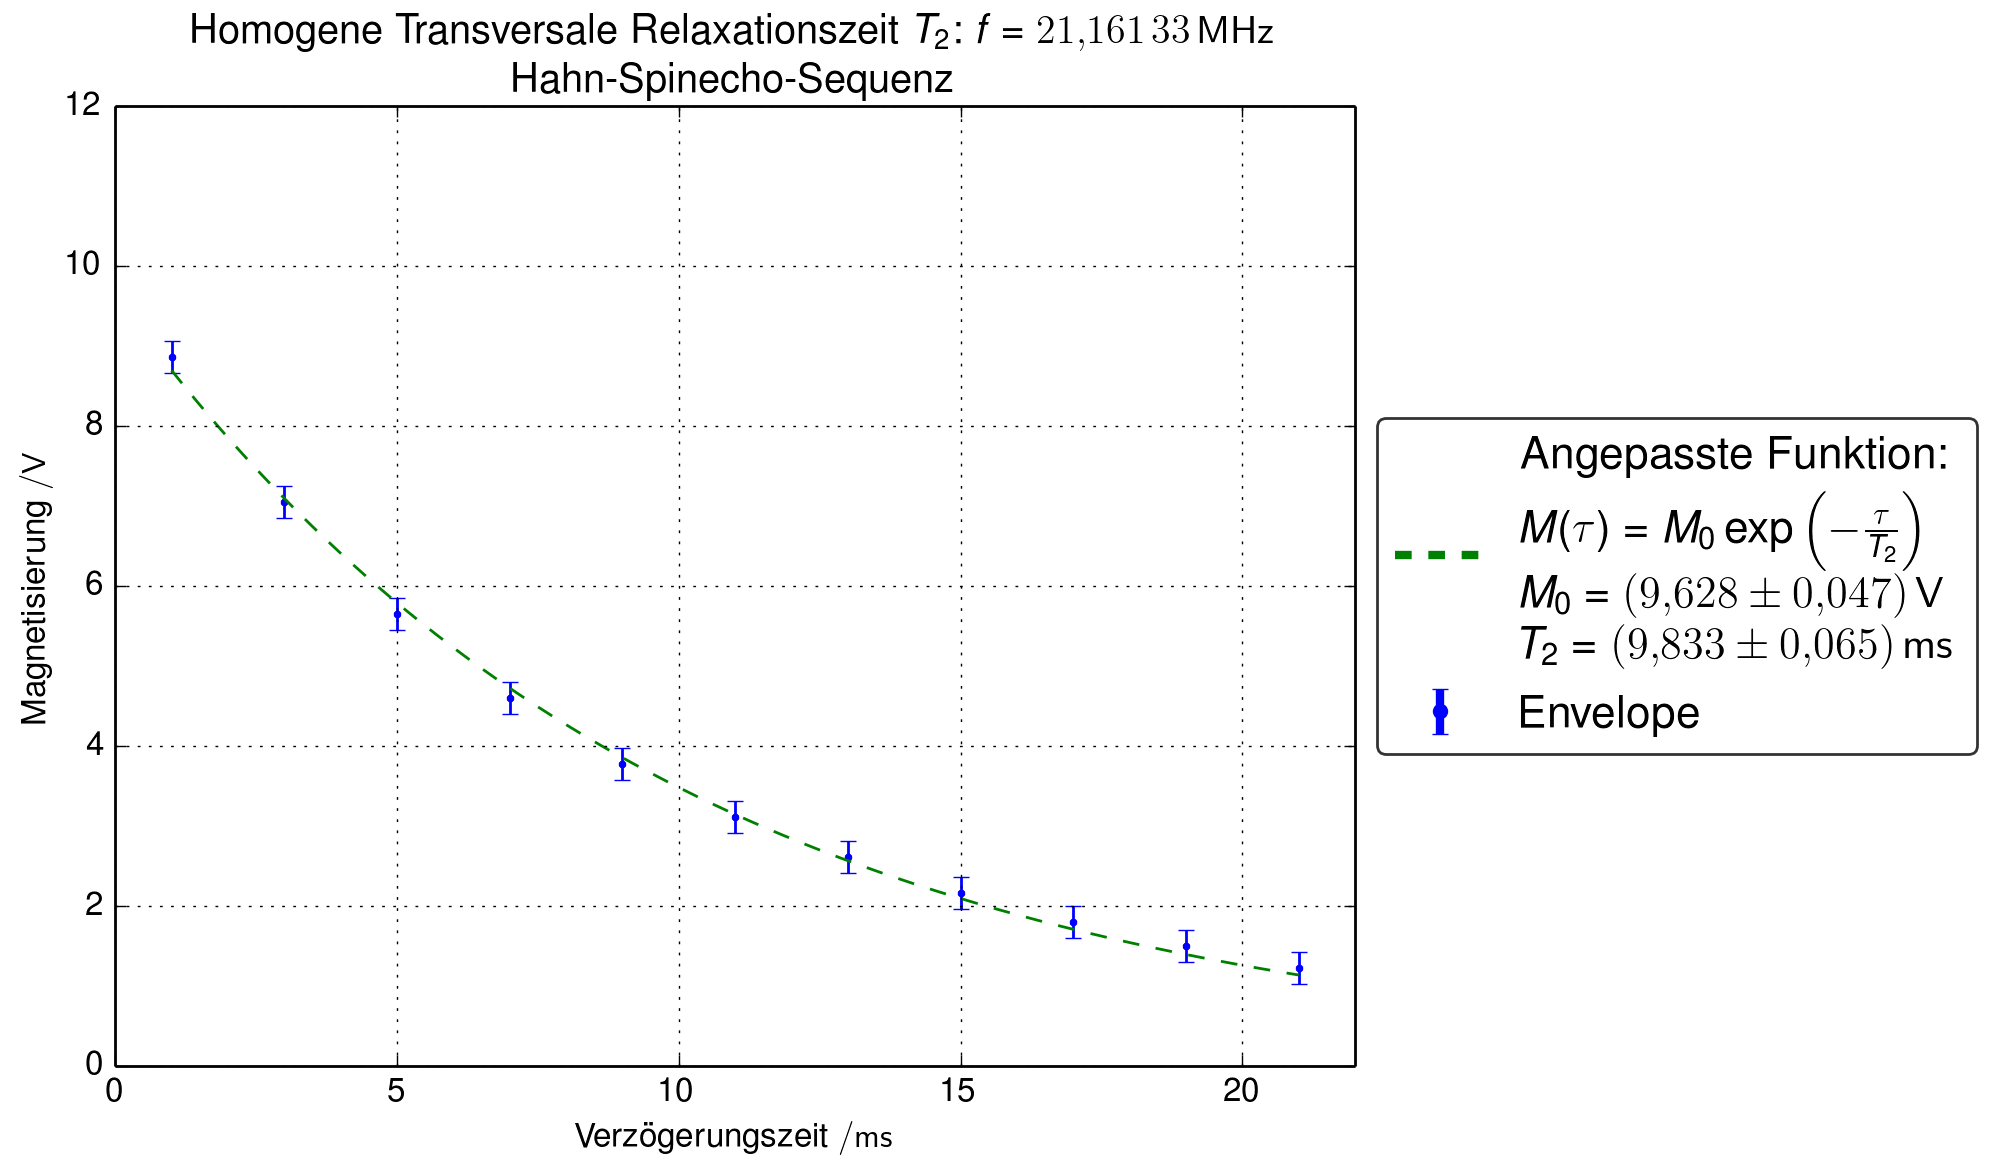
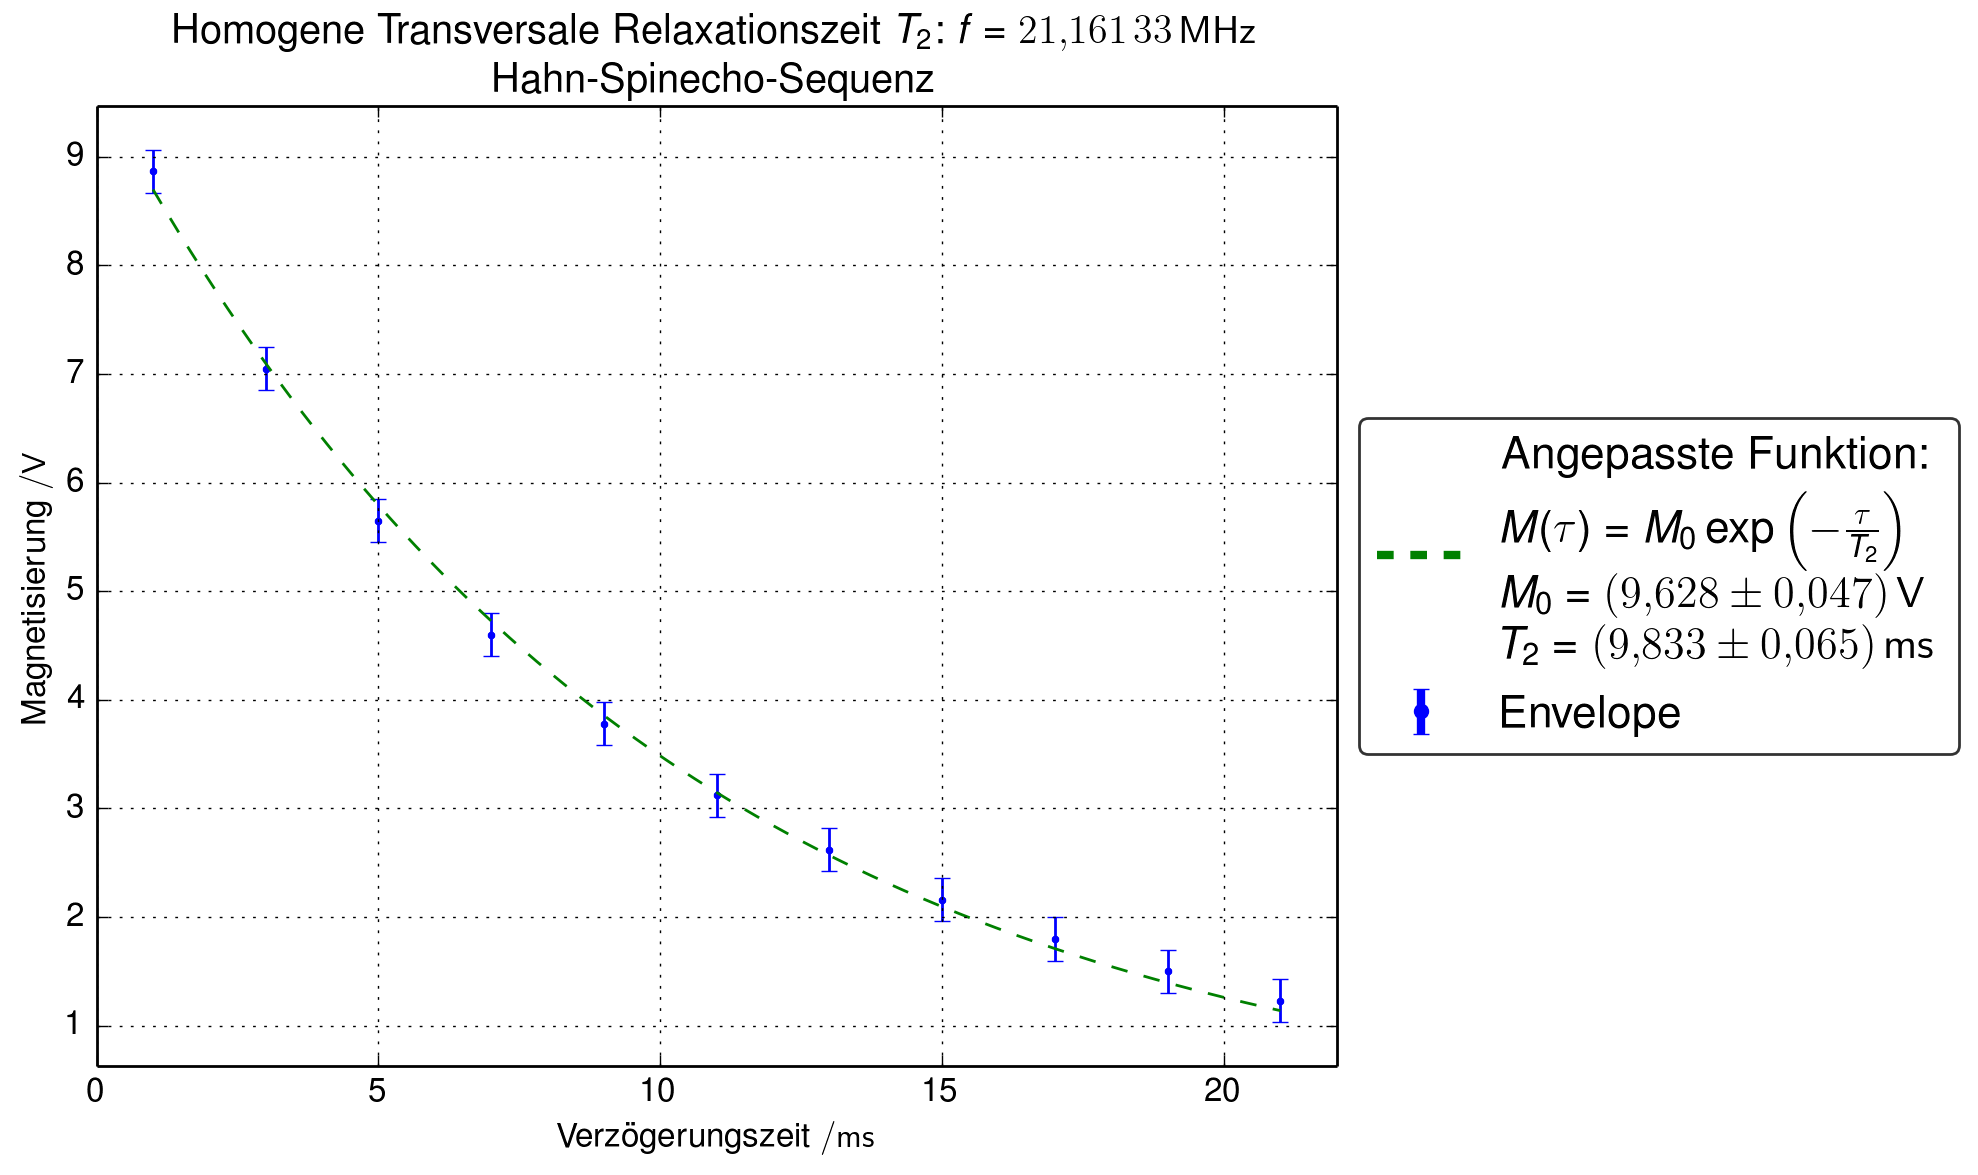
Auswertungs revision1

diff --git a/Versuch443-Kernmagnetische-Relaxation/Report/Versuch443_TobiasBrauell_FrederikeSchroedel_Report.tex b/Versuch443-Kernmagnetische-Relaxation/Report/Versuch443_TobiasBrauell_FrederikeSchroedel_Report.tex
@@ -257,8 +257,8 @@
       Für den $\frac{\pi}{2}$ - Puls gilt, dass dieser genau der halben Länge
       des $\pi$ - Pulses, also $A_{len}=\SI{2.72}{\micro\second}$, entspricht.
       
-      \todo{Fertig?}
-      \todo{oder ist das schon im aufbau gemacht worden?}
+      \todo{Fertig? oder ist das schon im aufbau gemacht worden? Wie hängen
+      Envelope, Q und I signal zusammen?}
       
     \end{section}
     %%%%%%%%%%%%%%%%%%%%%%%%%%%%%
@@ -285,7 +285,6 @@
         \label{eqFID}
         M(\tau)=M_{0}\exp{\left(-\frac{\tau}{T_{2}^{*}}+c\right)},
       \end{equation}
-      \todo{ist die Funktion okay oder soll ich das c wieder raus nehmen?}
       mit einer Versatzvariablen $c$ um den leicht verschobenen exponentiellen
       Abfall zu kompensieren, an.
       \Cref{figFIDenv} stellt das FID - Signal und die daran angepasste Kurve
@@ -308,8 +307,9 @@
       eingestellt.
       Bei welcher Frequenz eine Messung aufgenommen wurde ist jeweils im Titel
       der Graphiken festgehalten.
-      \todo{fehlt noch was zu T2*. und ist das HIER tatsächlich richtig
-        oder besser nachher wenn T2* tatsächlich gebraucht wird?}
+      \todo[inline]{fehlt noch was zu T2*. und ist das HIER tatsächlich richtig
+        oder besser nachher wenn T2* tatsächlich gebraucht wird? Und was
+        erwarten wir aus der theorie als antwort der probe auf einen pi/2 puls?}
       
 %       \begin{figure}[htb]
 %         \centering
@@ -384,10 +384,19 @@
       Für eine Pulslänge um die des $\pi$ - Pulses nimmt die Amplitude wieder
       ab um dann bei der Länge entsprechend eines $\frac{3\pi}{4}$ - Pulses
       wieder ein Maximum erreicht.
-      Das In--Phase - Signal...
-      \todo{haben wir bei den unteren Oszillationen ein vorzeichen übersehen
-        oder soll das auch ein sinus betrag sein? Martin hat da eine normale
-        sinus schwingung!}
+      
+      Die Werte unserer Messung des In--Phase - Signales entsprachen zu beginn
+      ebenfalls einer Betragsfunktion des Sinus.
+      Dies machte für uns allerdings während der Auswertung wenig Sinn, da
+      dieses Signal eigentlich ein mit einem wechselnden Vorzeichen behaftet
+      seien sollte.
+      Daher gehen wir davon aus, dass wir entweder beim ablesen der Messwerte am
+      Oszilloskop das wechselnde Vorzeichen übersehen haben oder aber das
+      Oszilloskop dort an einer anderen Stelle des Signales getriggert hat
+      und uns damit ein Phasen verschobenes Bild angezeigt hat.
+      Aus diesem Grund haben wir nachträglich die Vorzeichen angepasst um eine
+      tatsächliche Sinus Oszillation zu erhalten.
+      \todo[inline]{Interpretieren der daten!}
       
     \end{section}
     %%%%%%%%%%%%%%%%%%%%%%%%%%%%%
@@ -407,7 +416,8 @@
       vergleichen wollen.
       Die Relaxationszeit $T_{1}$ kann hierbei sowohl mit der
       Sättigungs--Zurückgewinnungs- als auch mit der Polarisations--
-      Zurückgewinnungs - Methode über die Höhe des FID - Signales bestimmt werden.
+      Zurückgewinnungs - Methode über die Höhe des FID - Signales bestimmt
+      werden.
       
       
       %%%%%%%%%%%%%%%%%%%%%%%%%%%%%%%%%%%%%%%
@@ -416,7 +426,8 @@
       \begin{subsection}{Sättigungs--Zurückgewinnung}
         \label{chpLongRelaxSaettigung}
         Bei der Sättigungs--Zurückgewinnungs - Methode wird zunächst mit einem
-        $\frac{\pi}{2}$ - Puls... \todo{was genau passiert hier? Erklärungen!}
+        $\frac{\pi}{2}$ - Puls... \todo{was genau passiert hier? Erklärungen
+          in der Theorie!}
         
         Die für diese Methode benutzte Sequenz ist in \cref{eqSaettigungSequenz}
         noch einmal notiert.
@@ -447,7 +458,7 @@
         \begin{equation}
           \label{eqSaettigung}
           M(\tau)=M_{0}\left(1-\exp\left(-\frac{\tau}{T_{1}}\right)\right)
-        \end{equation} \todo{Woher kommt diese Form?}
+        \end{equation} \todo{Woher kommt diese Form? Theorie!}
         Die angepasste Funktion ist in \cref{figSaettigung} zusammen mit den
         Daten abgebildet.
         Aus den Parametern dieser Anpassung erhalten wir nun die zu bestimmende
@@ -469,7 +480,7 @@
       %%%%%%%%%%%%%%%%%%%%%%%%%%%%%%%%%%%%%%%
       \begin{subsection}{Polarisations--Zurückgewinnung}
         \label{chpLongRelaxPolarisation}
-        \todo{Erklärungen!}
+        \todo{Erklärungen in der Theorie!}
         Die Messungen bei dieser Methode ähneln denen der Sättigungs--
         Zurückgewinnungs - Methode bis auf die verwendete Sequenz und die an die
         Messwerte angepasste Funktion.
@@ -480,14 +491,15 @@
         \begin{equation}
           \label{eqPolarisationSequenz}
           \pi \rightarrow \tau \frac{\pi}{2} \rightarrow \mathtt{FID}
-        \end{equation} \todo{Warum? woher?}
+        \end{equation}
+        Die Messdaten 
         An die gemessenen Spannungen passen wir bei der Polarisations--
         Zurückgewinnungs - Methode eine Funktion von der Form der
         \cref{eqPolarisation} an.
         \begin{equation}
           \label{eqPolarisation}
           M(\tau)=M_{0}\left(1-2\cdot\exp\left(-\frac{\tau}{T_{1}}\right)\right)
-        \end{equation} \todo{Warum? woher?}
+        \end{equation} \todo{Warum? woher? Theorie!}
         Sowohl die Messwerte als auch die angepasste Funktion sind, wie zuvor,
         in \cref{figPolarisation} dargestellt und gegen die variierte
         Verzögerungszeit $\tau$ aufgetragen.
@@ -503,7 +515,6 @@
         Aus den Parametern der Anpassung von \cref{eqPolarisation} erhalten
         wir nun die longitudinale Relaxationszeit
         $T_{1}=\SI{34,474(27)}{\milli\second}$ und $M_{0}=\SI{9,885(3)}{\volt}$.
-        \todo{und? gefällt uns die Funktion?}
         
       \end{subsection}
       %%%%%%%%%%%%%%%%%%%%%%%%%%%%%%%%%%%%%%%
@@ -657,7 +668,8 @@
         unterschiedlichen Magnetfeld - Gradienten gefunden.
         Wie sich $T_{2}$ mit der Verzögerungszeit und dem
         Magnetfeld - Gradienten ändert ist in \cref{tabCarr} notiert.
-        \todo[inline]{Erklärungen??? Idee warum das so ist??}
+        \todo[inline]{Erklärungen??? Idee warum das so ist?? und welchen
+          Einfluss hat der gradient tatsächlich?}
         \begin{table}[htb]
           \centering
           \rowcolors{2}{}{lightgray!30}
@@ -758,7 +770,7 @@
           \end{minipage}
         \end{figure}
         \todo[inline]{Beobachtung der unteren Bilder noch erklären.
-          Wieso oszilliert es nicht mehr?}
+          Wieso oszilliert es nicht mehr? }
         
       \end{subsection}
       %%%%%%%%%%%%%%%%%%%%%%%%%%%%%%%%%%%%%%%

diff --git a/Versuch443-Kernmagnetische-Relaxation/Report/Data/plot_functions.py b/Versuch443-Kernmagnetische-Relaxation/Report/Data/plot_functions.py
@@ -136,7 +136,7 @@ def f_mg(x, M0, T2):
     return f
 
 def f_rabi_a(x, a, b, d):
-    if a < 4.0 and b > 0.4 and d < 2.5:
+    if 1:#a < 4.0 and b > 0.4 and d < 2.5:
         return (a*np.sin(b*x))+d
     else:
         return 1e5
@@ -618,8 +618,8 @@ def plot_xy_error(fn, x, xlabel, y , ylabel, yerror, label, title, style, fsize,
     if fn[0:3] == "Pol":
         T = 1
         func = f_pol
-        x = x[1:]
-        y = y[1:]
+        #x = x[1:]
+        #y = y[1:]
         func_form = r"$M(\tau)=M_0\left(1-2\exp{\left(-\frac{\tau}{T_1}\right)}\right)$"
     
     if fn[0:3] == "Hom":
@@ -645,7 +645,7 @@ def plot_xy_error(fn, x, xlabel, y , ylabel, yerror, label, title, style, fsize,
     plt.xlabel(xlabel)
     plt.ylabel(ylabel)
     
-    plt.ylim(0,12)
+    #plt.ylim(0,12)
     
     # place a Legend in the plot
     leg = set_legend(fsize, msize, opac, location, True)
@@ -663,7 +663,7 @@ def plot_xy_errorlist(fn, xlist, xlabel, ylist , ylabel, yerrorlist, labels, tit
     plt.figure()
     
     colors = ["red", "green", "blue", "orange"]
-    func = [f_rabi_b, f_rabi_b, f_rabi_b, f_rabi_b]
+    func = [f_rabi_b, f_rabi_a, f_rabi_b, f_rabi_a]
     func_form = [r"$f(x)=a |\sin{\left(b x\right)}|+d$",
                  r"$f(x)=a \sin{\left(b x\right)}+d$",
                  r"$f(x)=a |\sin{\left(b x\right)}|+d$",

diff --git a/Versuch443-Kernmagnetische-Relaxation/Report/Data/plottings.py b/Versuch443-Kernmagnetische-Relaxation/Report/Data/plottings.py
@@ -72,14 +72,14 @@ location = 5
 
 
 FIDONOFF = 0    # ========== FERTIG ==========
-RabiONOFF = 0    # ========== FERTIG ==========
+RabiONOFF = 1    # ========== FERTIG ==========
 OffsetONOFF = 0    # ========== FERTIG ==========
 Roh_PulsONOFF = 0    # ========== FERTIG ==========
-SaettigungONOFF = 1    # ========== FERTIG ========== sieht aber scheisse aus und gibt einen overflow
-PolarisationONOFF = 1    # ========== FERTIG ========== sieht aber scheisse aus
+SaettigungONOFF = 0    # ========== FERTIG ========== sieht aber scheisse aus und gibt einen overflow
+PolarisationONOFF = 0    # ========== FERTIG ========== sieht aber scheisse aus
 HomoTransRelaxONOFF = 0    # ========== FERTIG ========== sieht aber scheisse aus
 
-ALLES = 1
+ALLES = 0
 
 if ALLES == 1:
     FIDONOFF = 1
@@ -134,8 +134,8 @@ if Roh_PulsONOFF == 1:
                      Roh_Puls[i][0]*1e6, r"Zeit $/\SI{}{\micro\second}$",
                      Roh_Puls[i][1], "Envelope",
                      Roh_Puls[i][2], "Signal Direkt",
-                     r"Magnetisierung $/\SI{}{\volt}$",
-                     "Bild des rohen Pulses",
+                     r"Spannung $/\SI{}{\volt}$",
+                     "Spannungsverlauf des rohen Pulses",
                      style, fsize, msize, opac, location, False, False)
         i += 1
     
